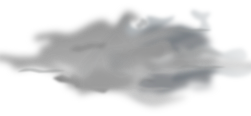
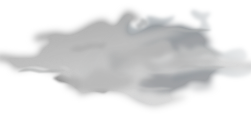
fixed the opacity problem on my image
i changed the opacity on photoshop instead of working on it through code

Changed region(s): [[0.1952, 0.2328, 0.8367, 0.7759]]

diff --git a/expirements/The_Garden_Project/js/script.js b/expirements/The_Garden_Project/js/script.js
@@ -27,6 +27,29 @@ let garden = {
 };
 let imgSmoke;
 
+
+function win() {
+  push();
+  textSize(64);
+  fill(255, 150, 150);
+  textAlign(CENTER, CENTER);
+  text("Yummy!", width / 2, height / 2);
+  text("You Won, Congrats", width / 2, height / 1.5);
+  image(imghappy, 600, 50, 200, 200);
+  pop();
+}
+function loss() {
+  push();
+  textSize(40);
+  fill(189, 38, 21);
+  textAlign(CENTER, CENTER);
+  text("Yucky!! :(", width / 2, height / 2);
+  fill(190, 50, 50);
+  text("you lose try again", width / 2, height / 1.5);
+  image(imgDead, 600, 100, 300, 300);
+
+  pop();
+}
 // setup() creates the canvas and the flowers in the garden
 function setup() {
   createCanvas(600, 600);
@@ -73,6 +96,9 @@ function setup() {
 // draw()
 // Displays our flowers
 function draw() {
+
+
+
   // displaying the grass
   background(garden.grassColor.r, garden.grassColor.g, garden.grassColor.b);
 
@@ -120,6 +146,12 @@ function displayFlower(flower) {
 function displaySmoke(){
 
 image(imgSmoke,0,0,width,height);
+  
+}
+// check if bees are gone
+
+if (garden.numBees === 0){
+
+ state = 'loss';
 
 }
-
